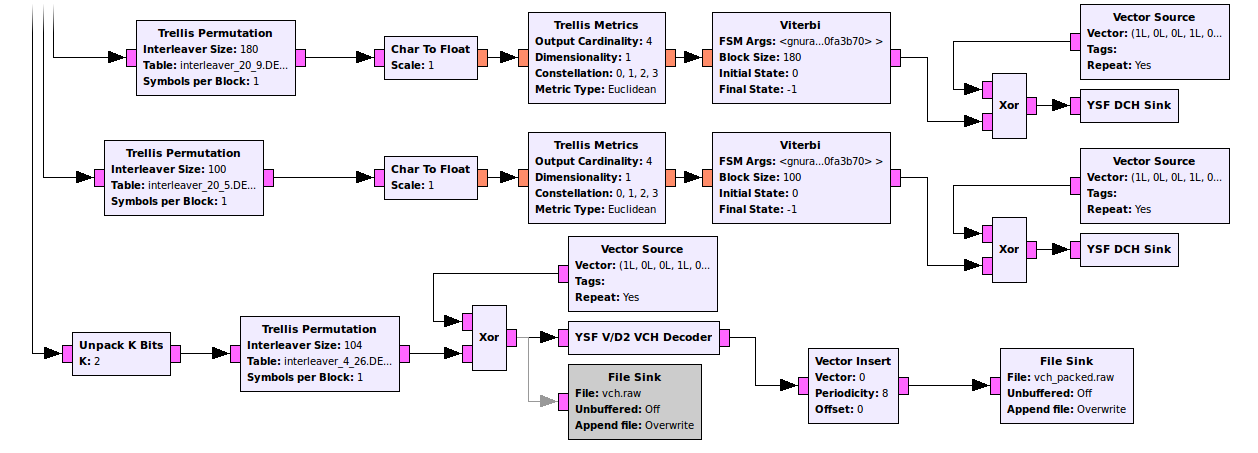
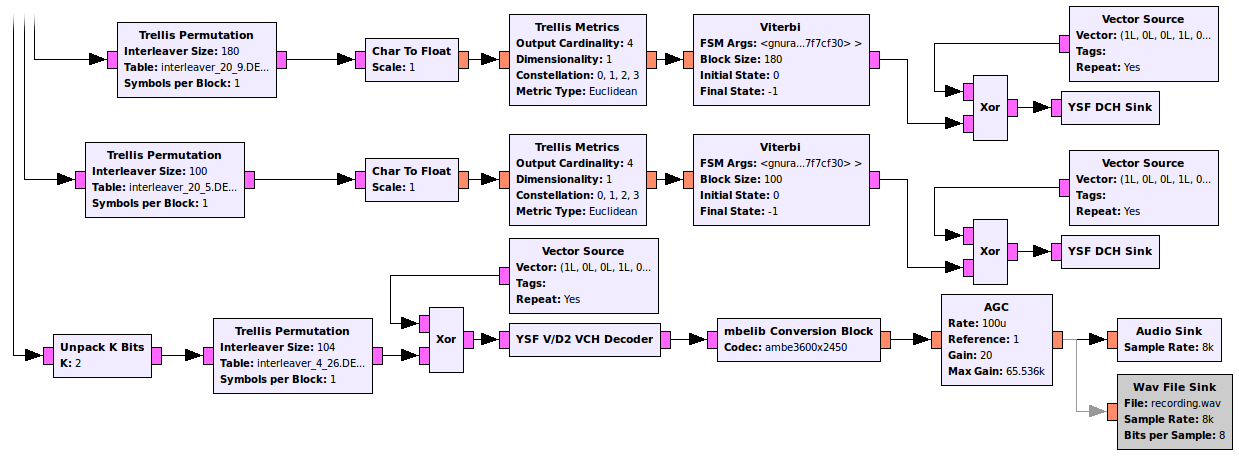
Updating docs to reflect newly merged mbelib-block changes
Details:
- Change text from offline process to online process.
- Change text to reflect new blocks.
- New big picture flowgraph.
- New decoding.png sub-flowgraph.

Changed region(s): [[0.0, 0.0, 1.0, 0.989]]

diff --git a/index.html b/index.html
@@ -54,7 +54,7 @@ C4FM for the past few years.</p>
 <p>This section briefly outlines the <code>ysf_rx.grc</code> flowgraph found in the
 <a href="https://github.com/HB9UF/gr-ysf/tree/master/examples"><code>examples/</code></a> 
 directory of the project. The flowgraph corresponds to commit
-<code>a25029</code>, although I will update this page as things progress. The
+<code>cda9f51</code>, although I will update this page as things progress. The
 full flowgraph can be seen <a href="ysf_rx.png">here</a>, I will split it into
 several parts to make this discussion easier to follow.</p>
 
@@ -106,17 +106,13 @@ only differs from the former by its parameters) and 4-32 of the Yaesu spec.
 It is remarkable that all of these blocks are standard GNU Radio blocks. I had
 to hack up my own scrambler as the one from GNU Radio exhibited a bug.</p>
 
-<p>Only two custom blocks are necessary in this part of the flowgraph: The DCH
+<p>Only three custom blocks are necessary in this part of the flowgraph: The DCH
 Sink takes the DCH packets containing e.g. call sign information and dumps them
 to the console. The V/D 2 VCH Decoder undoes the weird bit triplication
 introduced in step 3 of Figure 4-32 of the Yaesu spec. The output of this block
-is an AMBE frame. Those AMBE frames are interleaved with a zero-byte. I'm not
-sure what they are good for, but dsd/mbelib seems to expect them to be there.</p>
-
-<p>The output file can be prefixed with a header required by dsd (<code>cat
-ambe.header vch_packed.raw &gt; ambefile.amb</code>) and then played back using
-dsd (<code>dsd -w output.wav -r ambefile.amb</code>). A glue block to get around
-this single offline step is in the works.</p>
+is an AMBE frame. Those AMBE frames enter the third custom block, mbelib
+Conversion Block. This block calls mbelib and retrieves the synthesized speech,
+which is normalized in amplizude by an AGC and sent to the speaker.</p>
 
 <h1>License, Code and Dependencies</h1>
 <p>The project is released on a <a href="https://github.com/HB9UF/gr-ysf/">github page</a> under the 
